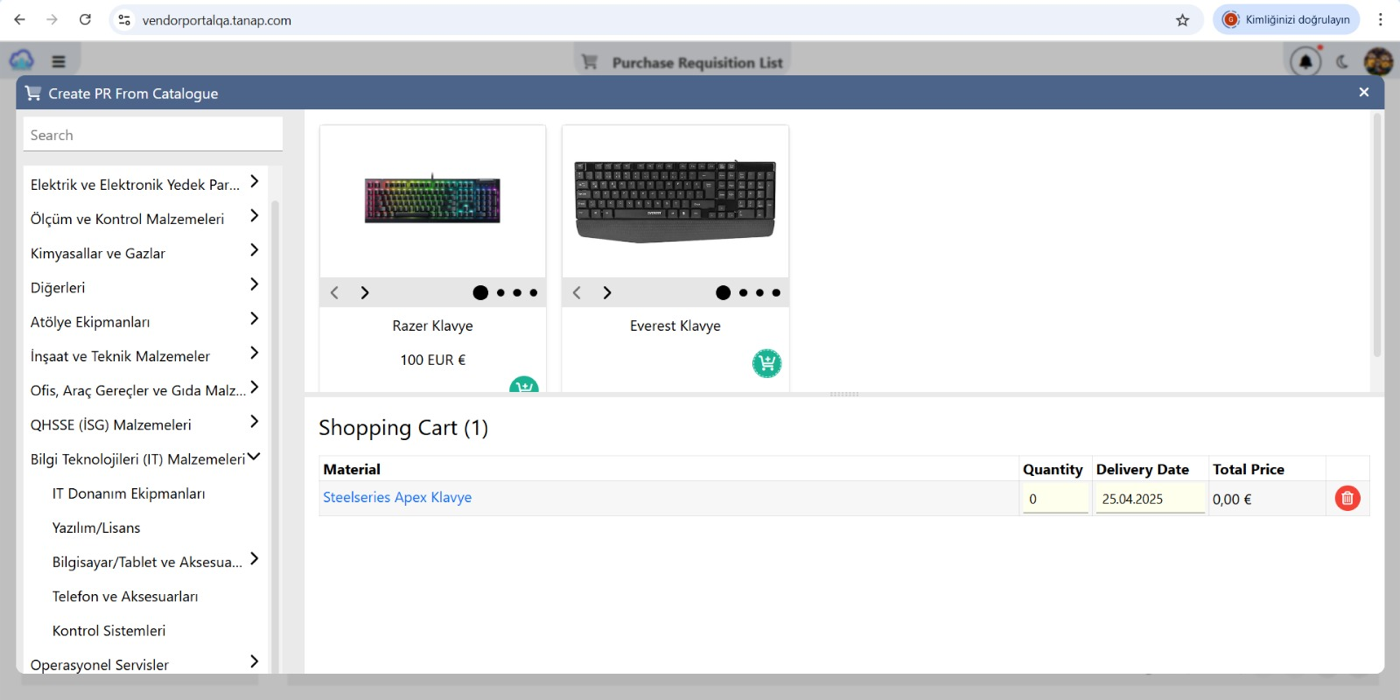
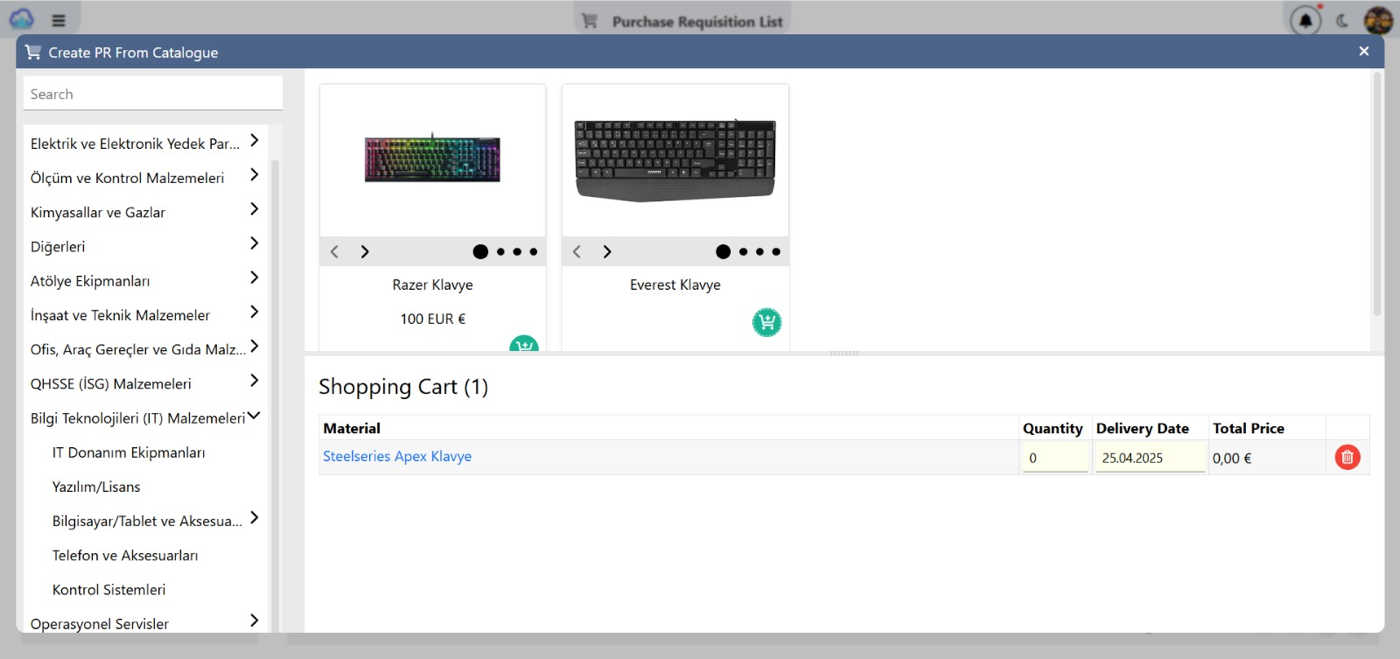
edited catalogue image

diff --git a/build_news.py b/build_news.py
@@ -15,6 +15,7 @@ Yeni haber eklemek için:
   2. news-data.json listesinin BAŞINA yeni kaydı ekle
   3. python3 build_news.py
 """
+
 import json
 
 HOME_CARD_COUNT = 6
@@ -67,8 +68,10 @@ def main():
     cards = [render(card_tpl, item, tr) for item in data]
     replace_grid("index.html", "\n".join(cards[:HOME_CARD_COUNT]))
     replace_grid("news.html", "\n".join(cards))
-    print("index.html (%d kart) ve news.html (%d kart) güncellendi"
-          % (HOME_CARD_COUNT, len(cards)))
+    print(
+        "index.html (%d kart) ve news.html (%d kart) güncellendi"
+        % (HOME_CARD_COUNT, len(cards))
+    )
 
 
 if __name__ == "__main__":